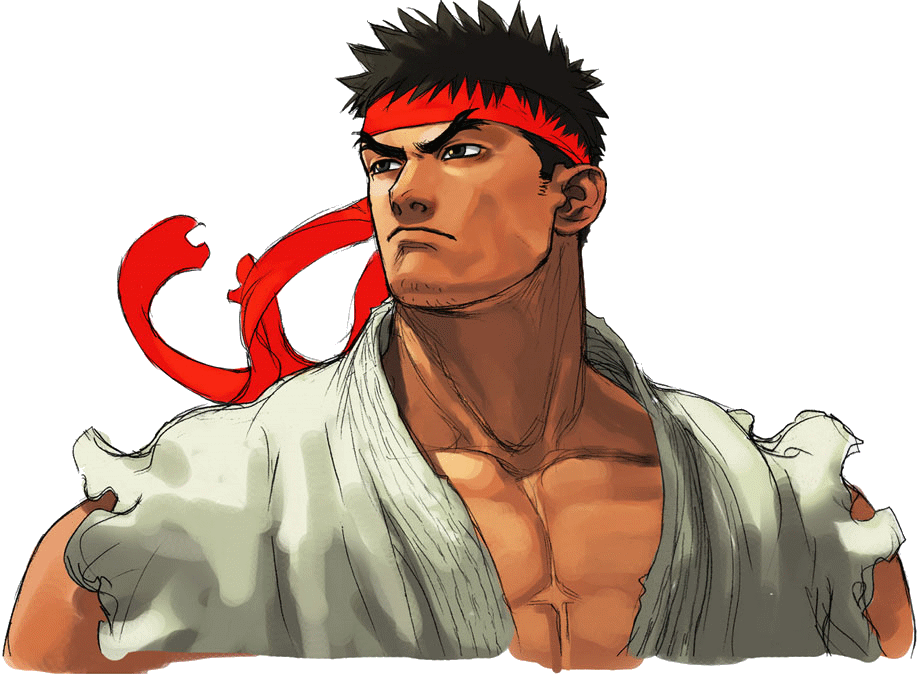
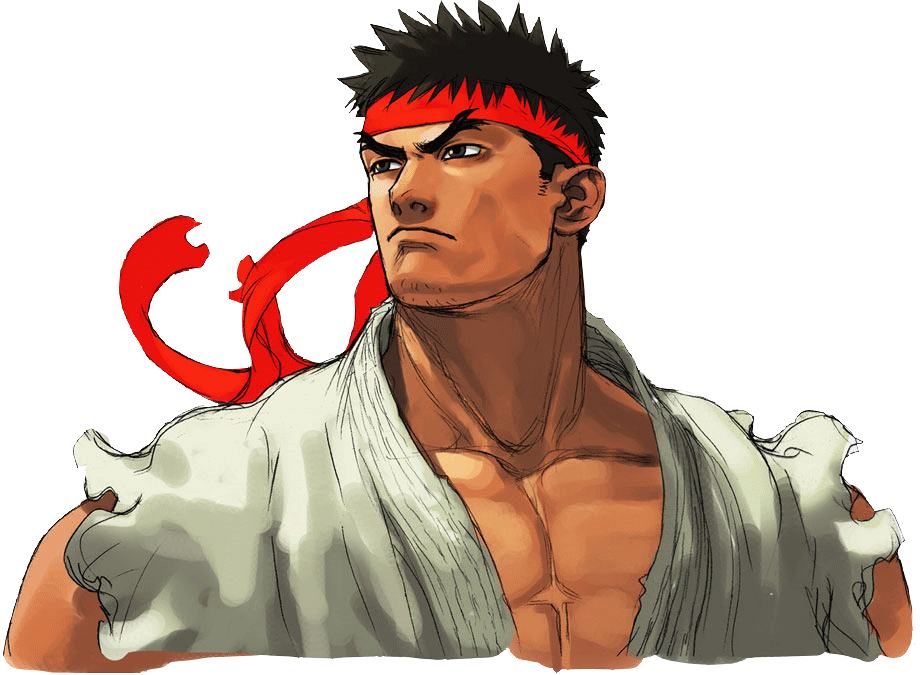
1. /(home): Hide create section if user is not signed in 2. Clean up Ryu's images

diff --git a/src/routes/(home)/+page.svelte b/src/routes/(home)/+page.svelte
@@ -50,6 +50,8 @@
         }
     });
 
+    let isUserSignedIn = $derived(data.user != null);
+
     let canCreateCombo: boolean = $derived(
         selectedGame != undefined && selectedCharacter != undefined
     );
@@ -59,7 +61,7 @@
             return 'common.loading';
         } else if (selectedCharacter == undefined) {
             return 'home.createSection.selectCharacterPlaceholder';
-        } 
+        }
 
         return 'common.loading';
     });
@@ -85,31 +87,36 @@
 <div class="division">
     <section class="create-form">
         <h2>{$_('home.createSection.title')}</h2>
+        
+        {#if isUserSignedIn}
+            <label for="select-game">{$_('home.createSection.selectGameLabel')}</label>
+            <Dropdown
+                options={gameOptions}
+                bind:value={selectedGame}
+                placeholder={$_('home.createSection.selectGamePlaceholder')}
+            ></Dropdown>
 
-        <label for="select-game">{$_('home.createSection.selectGameLabel')}</label>
-        <Dropdown
-            options={gameOptions}
-            bind:value={selectedGame}
-            placeholder={$_('home.createSection.selectGamePlaceholder')}
-        ></Dropdown>
+            <label for="select-character">{$_('home.createSection.selectCharacterLabel')}</label>
+            <Dropdown
+                options={characterOptions}
+                bind:value={selectedCharacter}
+                disabled={characterOptions.length === 0}
+                placeholder={characterDropdownPlaceholder}
+            ></Dropdown>
 
-        <label for="select-character">{$_('home.createSection.selectCharacterLabel')}</label>
-        <Dropdown
-            options={characterOptions}
-            bind:value={selectedCharacter}
-            disabled={characterOptions.length === 0}
-            placeholder={characterDropdownPlaceholder}
-        ></Dropdown>
-
-        {#if waitingForComboCreation}
-            <button onclick={createComboWithSettings} disabled>
-                {$_('common.pending')}
-            </button>
+            {#if waitingForComboCreation}
+                <button onclick={createComboWithSettings} disabled>
+                    {$_('common.pending')}
+                </button>
+            {:else}
+                <button onclick={createComboWithSettings} disabled={!canCreateCombo}>
+                    {$_('common.create')}
+                </button>
+            {/if}
         {:else}
-            <button onclick={createComboWithSettings} disabled={!canCreateCombo}>
-                {$_('common.create')}
-            </button>
+            <p>{$_('home.createSection.mustBeSignedIn')}</p>
         {/if}
+
     </section>
     <section class="browse">
         <h2>{$_('home.browseSection.title')}</h2>
@@ -133,7 +140,7 @@
 
     .division {
         display: grid;
-        grid-template: 'a b' auto / 0.3fr 1fr;
+        grid-template: 'a b' auto / 30% 70%;
         gap: $spacing-4;
 
         @include for-size(phone, down) {
